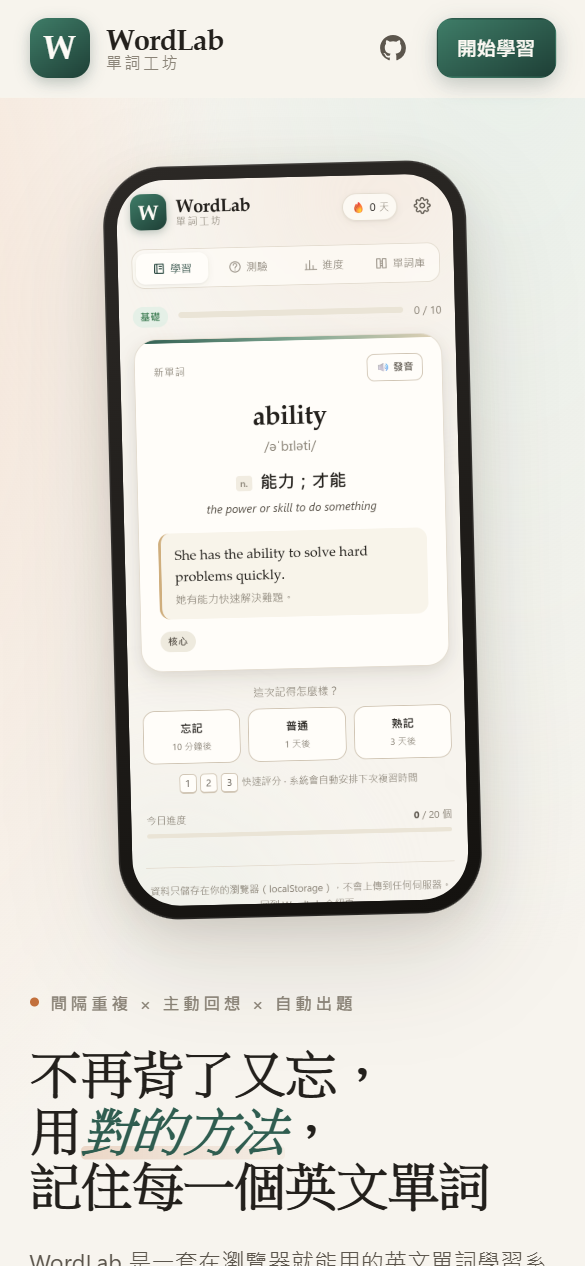
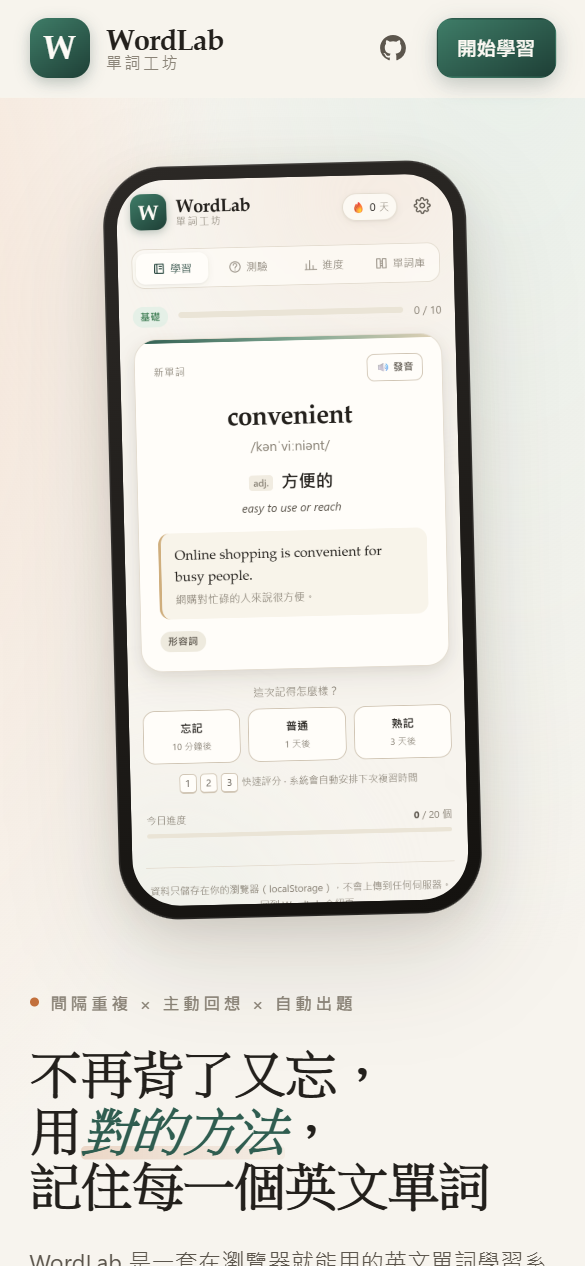
fix: 新詞改為固定隨機順序，不再按字母順序派發
問題
- newWordsPool() 以 word.localeCompare() 排序，導致新詞一路由 a 開始：
  ability → accept → achieve → active → advantage → advice → ...
  學習者會連續背到大量同一開頭的字，也容易混淆拼寫相近的詞。

修正
- 新增 hashRank()（FNV-1a 32-bit 穩定雜湊），新詞池改為
  「先依難度（基礎 → 中階 → 進階 → 高階），同級內依 id 的雜湊值排序」
- 效果：順序被打散（例：convenient → challenge → manage → pocket →
  arrange → imagine → accept → advantage…），但每次開啟、每部裝置的
  次序都一致，方便接續學習（不影響既有進度記錄，進度以 id 為準）
- 全 700 詞中「連續同字母」最多只有 2 個（原本是整段同字母）

其他
- README 新增「新詞順序」說明
- 介紹頁難度區塊的建議文案改為「同級內以固定隨機順序安排（不會一路背 a、b、c）」
- scripts/smoke-test.mjs 新增 3 項回歸測試（非字母順序、不連續同字母、順序可重現）
- 重新產生產品截圖（第一張卡由 ability 改為 convenient）
- 版本 1.3.1

驗證
- node scripts/build.mjs：700 詞驗證通過
- node scripts/smoke-test.mjs：39/39 通過

Changed region(s): [[0.3077, 0.3081, 0.6462, 0.5237]]

diff --git a/js/app.js b/js/app.js
@@ -412,11 +412,26 @@
     return count;
   }
 
+  /**
+   * 穩定的字串雜湊（FNV-1a 32-bit）。
+   * 用來為單詞產生固定的「隨機」次序：每次開啟、每部裝置都一樣，
+   * 但不會像字母順序那樣連續出現同一個開頭的字。
+   */
+  function hashRank(str) {
+    let h = 0x811c9dc5;
+    for (let i = 0; i < str.length; i++) {
+      h ^= str.charCodeAt(i);
+      h = Math.imul(h, 0x01000193);
+    }
+    return h >>> 0;
+  }
+
   function newWordsPool() {
-    // 依序：基礎 → 中階 → 進階 → 高階
+    // 先依難度（基礎 → 中階 → 進階 → 高階），同級內用固定雜湊排序，
+    // 讓新詞分散在不同字母與詞性，而不是 a、b、c 一路背下去。
     const pref = Number(state.settings.newWordLevel) || 0;
     const list = WORDS.filter(w => !state.progress[w.id] && (!pref || w.level === pref));
-    list.sort((a, b) => (a.level - b.level) || a.word.localeCompare(b.word));
+    list.sort((a, b) => (a.level - b.level) || (hashRank(a.id) - hashRank(b.id)));
     return list;
   }
 

diff --git a/index.html b/index.html
@@ -369,7 +369,7 @@
             <li><strong>完全新手</strong>：由「基礎」開始，先把日常字打好底。</li>
             <li><strong>準備考試</strong>：直接選「中階」或「進階」，配合每日 20–30 個。</li>
             <li><strong>想再上一層</strong>：選「高階」，針對論文與高階寫作詞彙。</li>
-            <li><strong>不確定</strong>：選「全部」，系統會由基礎順序安排，之後隨時可在設定中改。</li>
+            <li><strong>不確定</strong>：選「全部」，系統會由基礎開始，同級內以固定隨機順序安排（不會一路背 a、b、c），之後隨時可在設定中改。</li>
           </ul>
           <p class="note-small">難度設定只影響「新學」的單詞；已學過的複習排程不受影響。</p>
           <a class="btn btn-primary btn-block" href="app.html">選一個難度，開始學習</a>

diff --git a/README.md b/README.md
@@ -46,6 +46,9 @@ app.html      →  學習 App（完整功能，與原本相同）
   - 普通 → 1 天 → 3 天 → 依難度係數遞增
   - 熟記 → 3 天 → 5 天 → 更長的間隔
 - **智慧佇列**：到期複習優先，再用新詞補足每日目標
+- **新詞順序**：先依難度（基礎 → 中階 → 進階 → 高階），同級內以固定的雜湊順序排列，
+  **不是字母順序** —— 避免連續出現同一個開頭的字（不會一路背 a、b、c），
+  而且每次開啟、每部裝置的次序都一致，方便接續學習
 - **每日目標** 10 / 20 / 30 / 50 個，可隨時調整
 - **只複習到期的**：一鍵切換成純複習模式
 - **鍵盤操作**：`Space` 翻面、`1` 忘記、`2` 普通、`3` 熟記
